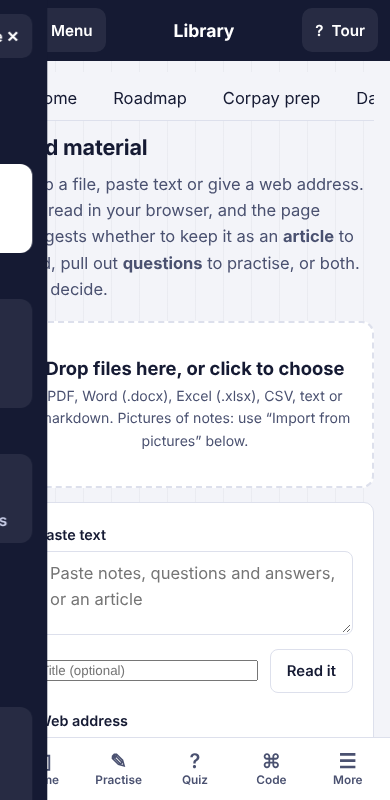
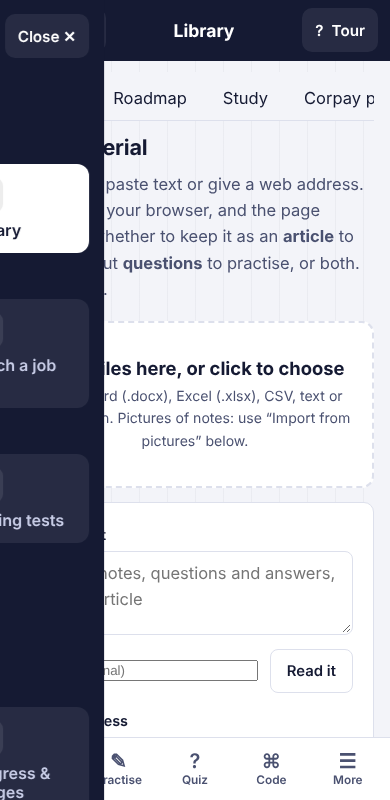
Library: Study tab for C#/.NET/SQL guides with links to questions and quiz
Claude-Session: https://claude.ai/code/session_0134cWK1xv4nTF79EdRyYTTT

Changed region(s): [[0.0, 0.0312, 0.2769, 1.0], [0.7385, 0.0938, 0.9538, 0.1562], [0.5846, 0.0938, 0.7077, 0.1562]]

diff --git a/js/views/study.js b/js/views/study.js
@@ -1,0 +1,28 @@
+// C#, .NET and SQL study: guides to read, with links to the matching questions and quiz.
+import { esc } from "../ui.js";
+import { MCQ } from "../data/index.js";
+import { allQuestions } from "../store.js";
+import { metaOf } from "../libmeta.js";
+import { loadRemote } from "../github.js";
+
+const TRACKS = [
+  ["study-cs", "C#", "Language, memory, async, modern C#, design.", "csharp"],
+  ["study-net", ".NET and ASP.NET Core", "Runtime, APIs, EF Core, security, resilience, ops.", "aspnet"],
+  ["study-sql", "SQL Server and T-SQL", "Joins, windows, indexes, transactions, T-SQL, exercises.", "efsql"],
+];
+
+export function view(root) {
+  let guides = [];
+  const draw = () => {
+    root.innerHTML = `<div class="card"><h2 style="margin:0 0 6px">C#, .NET and SQL study</h2><p class="muted" style="margin:0">Read the guides here, practise the open questions in Questions, and test yourself with the multiple-choice Quiz. Each guide ends with ten practice questions.</p></div>` +
+      TRACKS.map(([g, name, desc, cat]) => {
+        const list = guides.filter((x) => x.group === g).sort((a, b) => (a.order || 0) - (b.order || 0));
+        const nq = allQuestions().filter((q) => q.c === cat).length, nm = MCQ.filter((m) => m.c === cat).length;
+        return `<div class="card" style="margin-top:16px"><h3 style="margin:0">${esc(name)}</h3><p class="small muted" style="margin:2px 0 10px">${esc(desc)}</p>
+          <div class="row" style="gap:8px;flex-wrap:wrap;margin-bottom:10px"><a class="btn" href="#/library?tab=questions&cat=${cat}">${nq} questions</a><a class="btn primary" href="#/quiz?cat=${cat}">${nm} quiz questions</a></div>
+          <div class="art-list">${list.map((x) => { const me = metaOf("art", x.id); return `<a class="art-item" href="#/library?tab=articles&id=${encodeURIComponent(x.id)}"><strong>${esc(x.title)}</strong><span class="small muted">${me.done ? "read ✓" : me.pct > 3 ? me.pct + "% read" : "not started"}</span></a>`; }).join("") || '<p class="small muted"><span class="spinner"></span> Loading guides…</p>'}</div></div>`;
+      }).join("");
+  };
+  draw();
+  loadRemote().then((r) => { guides = r; if (root.isConnected) draw(); });
+}

diff --git a/js/views/library.js b/js/views/library.js
@@ -2,7 +2,7 @@
 import { esc } from "../ui.js";
 import { newCount } from "../dailypicks.js";
 
-const TABS = [["home", "Home", "./libhome.js"], ["roadmap", "Roadmap", "./roadmap.js"], ["corpay", "Corpay prep", "./corpay.js"], ["daily", "Daily picks", "./daily.js"], ["questions", "Questions", "./bank.js"], ["articles", "Articles", "./articles.js"], ["faqs", "FAQs", "./faq.js"], ["add", "Add material", "./add.js"]];
+const TABS = [["home", "Home", "./libhome.js"], ["roadmap", "Roadmap", "./roadmap.js"], ["study", "Study", "./study.js"], ["corpay", "Corpay prep", "./corpay.js"], ["daily", "Daily picks", "./daily.js"], ["questions", "Questions", "./bank.js"], ["articles", "Articles", "./articles.js"], ["faqs", "FAQs", "./faq.js"], ["add", "Add material", "./add.js"]];
 export const TAB_ALIAS = { bank: "questions", articles: "articles", faq: "faqs", import: "add" };
 
 export async function view(root, ctx) {

diff --git a/css/styles.css b/css/styles.css
@@ -743,3 +743,5 @@ pre.qcode { background: #0f1722; color: #e6edf6; padding: 12px 14px; border-radi
 .qz-rev .body { padding: 0 14px 14px 48px; }
 @media (prefers-reduced-motion: reduce) { .qz-card, .qz-fcard, .qz-opt, .qz-ring .fg, .qz-bigring .fg, .qz-sheet, .qz-exp { transition: none; animation: none; } }
 @media print { .qz-noprint, #nav, header.top, .btn { display: none !important; } }
+.mode-tabs { max-width: 100%; min-width: 0; box-sizing: border-box; }
+#libBody, main, .view { min-width: 0; }
